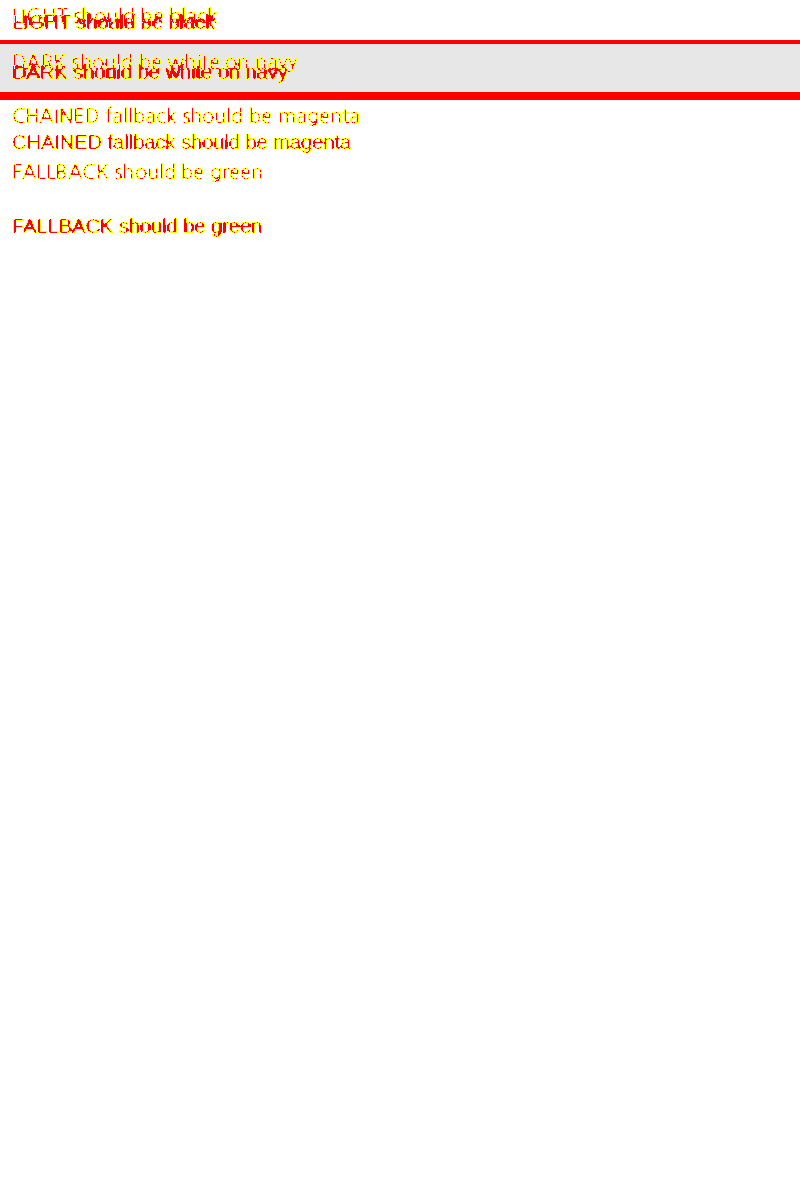
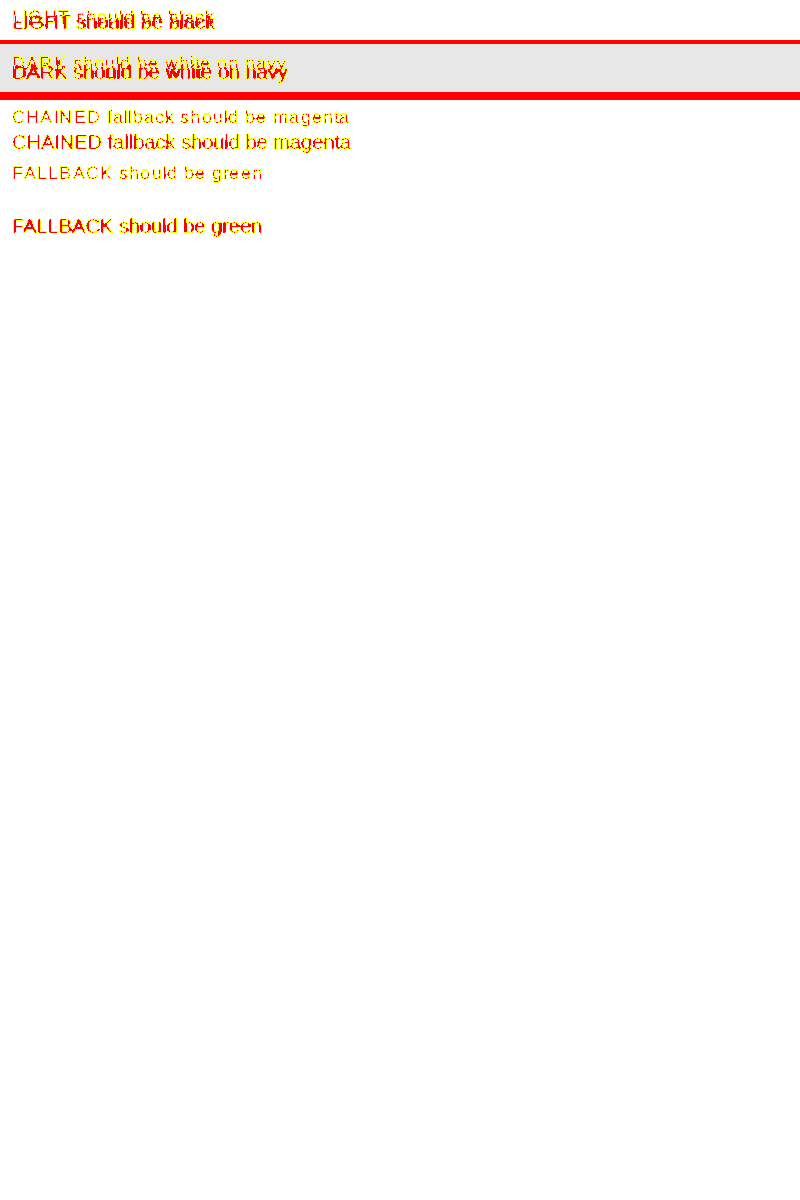
feat(font): add font fallback and share metrics between layout and paint
Text was measured and drawn with a single Korean face, so Latin runs came out at
the wrong advance widths: lines wrapped in the wrong places and pages ran about
a quarter short of Chromium's. DejaVu Sans — already bundled but unused — is now
the primary face, matching the default sans-serif on the systems this renders
against, with the Korean face behind it for the ranges DejaVu does not cover.

Face selection and advance widths live in one module used by both layout and
paint. They had duplicate copies of the metric arithmetic before, which is
exactly the pair that must not drift: if measurement and painting disagree about
a character's face, wrapping stops matching what is drawn. The paint cache is
keyed by face as well as glyph id, since ids only mean anything within a face.

Also honours the hidden attribute and skips template content, which pages rely
on the UA stylesheet for rather than writing the rule themselves, and adds a
coarse block-difference metric to the parity harness: the exact-pixel ratio is
dominated by glyph rasterisation and moves in the wrong direction when a page
goes from blank to correct-but-differently-hinted.

Claude-Session: https://claude.ai/code/session_01MVvjtxhhDJEQznXEyw2u3K

Changed region(s): [[0.0312, 0.0925, 0.4375, 0.1542], [0.0312, 0.0, 0.375, 0.0617]]

diff --git a/tools/parity/fixtures/probe-overflow/index.html b/tools/parity/fixtures/probe-overflow/index.html
@@ -1,0 +1,24 @@
+<!DOCTYPE html>
+<html lang="en">
+<head>
+<meta charset="utf-8">
+<title>Overflow width probe</title>
+<style>
+  body { margin: 0; font: 16px/1.4 sans-serif; background: #fff; }
+  section { border-bottom: 2px solid #333; padding: 8px; }
+  .frame { background: #eef; }
+  .wide { width: 1200px; height: 24px; background: #fcc; }
+  .padded { padding: 0 24px; background: #efe; }
+  .inner { background: #ffe; }
+  .nowrap { white-space: nowrap; background: #fef; }
+  .imgbox { width: 120px; background: #eee; }
+  .imgbox img { width: 100%; }
+</style>
+</head>
+<body>
+  <section><b>child wider than viewport</b><div class="frame"><div class="wide">1200px wide child</div></div></section>
+  <section><b>nested padding</b><div class="padded"><div class="padded"><div class="inner">Nested padding should shrink this box, not push it past the viewport</div></div></div></section>
+  <section><b>nowrap long line</b><div class="frame"><div class="nowrap">A very long single line that cannot wrap and therefore overflows its container horizontally by a lot</div></div></section>
+  <section><b>broken image with long alt</b><div class="imgbox"><img src="/does-not-exist.png" alt="A long alternative text describing an illustration that never loads and must not stretch the layout"></div></section>
+</body>
+</html>

diff --git a/src/render.rs b/src/render.rs
@@ -1,6 +1,6 @@
 use tiny_skia::{Pixmap, Paint, Transform, Stroke, PathBuilder, PixmapPaint, Mask, FillRule,
     LinearGradient, RadialGradient, GradientStop, SpreadMode, Point as SkPoint};
-use ab_glyph::{Font, FontRef, PxScale, point};
+use ab_glyph::{Font, point};
 use crate::layout::{LayoutBox, Rect as LayoutRect};
 use crate::css::{Color, CssColorStop, LinearDirection};
 use crate::layer_tree::{LayerTree, LayerTreeBuilder, PaintCommand, ObjectFit};
@@ -11,7 +11,6 @@ use lazy_static::lazy_static;
 use std::time::Instant;
 use url::Url;
 
-const FONT_DATA: &[u8] = include_bytes!("../assets/fonts/NanumGothic.ttf");
 
 // ── Glyph Cache ───────────────────────────────────────────────────────────────
 
@@ -23,6 +22,9 @@ const FONT_DATA: &[u8] = include_bytes!("../assets/fonts/NanumGothic.ttf");
 /// size collapse to the same entry.
 #[derive(Hash, Eq, PartialEq, Clone, Debug)]
 struct GlyphKey {
+    /// Glyph ids are only meaningful within one face, so the face is part of
+    /// the key — otherwise two faces' glyph 42 would share a cache entry.
+    face: crate::font::FaceId,
     glyph_id: u16,
     /// `(font_size * 2.0).round() as u32` — rounds to nearest 0.5 px.
     font_size_half_px: u32,
@@ -638,8 +640,6 @@ fn create_rounded_rect_path(r: LayoutRect, radius: f32) -> Option<tiny_skia::Pat
     pb.finish()
 }
 
-use std::sync::OnceLock;
-static FONT: OnceLock<FontRef<'static>> = OnceLock::new();
 
 /// Render a text run into `pixmap`.
 ///
@@ -671,15 +671,11 @@ fn render_text_raw(
 ) {
     let trimmed = text.trim();
     if trimmed.is_empty() { return; }
-    let font = FONT.get_or_init(|| {
-        FontRef::try_from_slice(FONT_DATA).expect("Failed to parse embedded font")
-    });
-    let scale = PxScale::from(font_size);
-    let units = font.units_per_em().unwrap_or(1000.0) as f32;
+    let fonts = crate::font::fonts();
     let baseline_offset = font_size * 0.85;
     let mut current_y = rect.y + baseline_offset;
     let mut current_x = rect.x;
-    let space_w = font.h_advance_unscaled(font.glyph_id(' ')) * (scale.x / units);
+    let space_w = fonts.advance(' ', font_size);
 
     // Shear coefficient for italic synthesis: shifts pixels ~12° (tan 12° ≈ 0.213)
     const ITALIC_SHEAR: f32 = 0.213;
@@ -698,9 +694,9 @@ fn render_text_raw(
         let mut word_w = 0.0;
         let mut glyphs = Vec::new();
         for c in word.chars() {
-            let gid = font.glyph_id(c);
-            let adv = font.h_advance_unscaled(gid) * (scale.x / units);
-            glyphs.push((gid, adv));
+            let (face, gid) = fonts.glyph(c);
+            let adv = fonts.advance(c, font_size);
+            glyphs.push((face, gid, adv));
             word_w += adv;
         }
         if current_x + word_w > rect.x + rect.width + 1.0 && current_x > rect.x {
@@ -711,8 +707,9 @@ fn render_text_raw(
             line_start_x = current_x;
             line_end_x = current_x;
         }
-        for (gid, adv) in glyphs {
+        for (face, gid, adv) in glyphs {
             let key = GlyphKey {
+                face,
                 glyph_id: gid.0,
                 font_size_half_px,
                 bold,
@@ -737,8 +734,9 @@ fn render_text_raw(
                 } else {
                     // Cache miss — rasterize using a canonical origin (0, 0) so
                     // that bx_delta/by_delta are position-independent.
-                    let canonical = gid.with_scale_and_position(scale, point(0.0, 0.0));
-                    let entry = if let Some(outline) = font.outline_glyph(canonical) {
+                    let canonical =
+                        gid.with_scale_and_position(fonts.scale(face, font_size), point(0.0, 0.0));
+                    let entry = if let Some(outline) = fonts.face(face).outline_glyph(canonical) {
                         let bounds = outline.px_bounds();
                         let bx_delta = bounds.min.x.floor() as i32;
                         let by_delta = bounds.min.y.floor() as i32;

diff --git a/src/layout.rs b/src/layout.rs
@@ -1,6 +1,5 @@
 use crate::css::{Unit, Value};
 use crate::style::StyledNode;
-use ab_glyph::{Font, FontRef, PxScale};
 use markup5ever_rcdom::NodeData;
 use std::collections::HashMap;
 extern crate stacker;
@@ -276,19 +275,15 @@ fn measure_text_width(text: &str, font_size: f32, wrap_width: f32) -> f32 {
     if trimmed.is_empty() {
         return 0.0;
     }
-    let font = FontRef::try_from_slice(FONT_DATA).unwrap();
-    let scale = PxScale::from(font_size.max(1.0));
-    let units = font.units_per_em().unwrap_or(1000.0) as f32;
-    let space_w = font.h_advance_unscaled(font.glyph_id(' ')) * (scale.x / units);
+    let fonts = crate::font::fonts();
+    let font_size = font_size.max(1.0);
+    let space_w = fonts.advance(' ', font_size);
 
     let mut max_w: f32 = 0.0;
     let mut line_w: f32 = 0.0;
 
     for word in trimmed.split_whitespace() {
-        let mut word_w = 0.0f32;
-        for c in word.chars() {
-            word_w += font.h_advance_unscaled(font.glyph_id(c)) * (scale.x / units);
-        }
+        let word_w = fonts.measure(word, font_size);
         if wrap_width.is_finite() && line_w + word_w > wrap_width && line_w > 0.0 {
             max_w = max_w.max(line_w);
             line_w = 0.0;
@@ -530,7 +525,6 @@ impl FloatContext {
     }
 }
 
-const FONT_DATA: &[u8] = include_bytes!("../assets/fonts/NanumGothic.ttf");
 
 #[derive(Default, Debug, Clone, Copy, PartialEq)]
 pub struct Rect {
@@ -2742,11 +2736,9 @@ impl<'a> LayoutBox<'a> {
             Some(Value::Length(v, Unit::Px)) => v.max(1.0),
             _ => 16.0,
         };
-        let font = FontRef::try_from_slice(FONT_DATA).unwrap();
-        let scale = PxScale::from(font_size);
-        let units = font.units_per_em().unwrap_or(1000.0) as f32;
+        let fonts = crate::font::fonts();
         let line_height = font_size * 1.4;
-        let space_w = font.h_advance_unscaled(font.glyph_id(' ')) * (scale.x / units);
+        let space_w = fonts.advance(' ', font_size);
         let white_space = self
             .style_node
             .specified_values
@@ -2794,10 +2786,7 @@ impl<'a> LayoutBox<'a> {
         }
 
         for word in trimmed.split_whitespace() {
-            let mut word_w = 0.0;
-            for c in word.chars() {
-                word_w += font.h_advance_unscaled(font.glyph_id(c)) * (scale.x / units);
-            }
+            let word_w = fonts.measure(word, font_size);
 
             if no_wrap {
                 if line_w > 0.0 {
@@ -2817,7 +2806,7 @@ impl<'a> LayoutBox<'a> {
             // If a single word is LONGER than the entire container, we must break it char-by-char
             if container_width.is_finite() && word_w > container_width {
                 for c in word.chars() {
-                    let char_w = font.h_advance_unscaled(font.glyph_id(c)) * (scale.x / units);
+                    let char_w = fonts.advance(c, font_size);
                     if line_w + char_w > container_width && line_w > 0.0 {
                         max_w = max_w.max(line_w);
                         line_w = 0.0;
@@ -3103,6 +3092,18 @@ fn should_skip(child: &StyledNode) -> bool {
     }
     if let NodeData::Element { ref name, ref attrs, .. } = child.node.data {
         let t = name.local.to_string();
+        // The `hidden` attribute is `display: none` in every UA stylesheet, and
+        // pages lean on that default rather than writing the rule themselves —
+        // dismissed banners and flash-message templates ship in the markup and
+        // stay in it. `<template>` holds inert content that is never rendered.
+        if t == "template" {
+            return true;
+        }
+        if attrs.borrow().iter().any(|a| {
+            a.name.local.as_ref() == "hidden" && !a.value.as_ref().eq_ignore_ascii_case("until-found")
+        }) {
+            return true;
+        }
         if matches!(
             t.as_str(),
             "head" | "style" | "meta" | "title" | "script" | "link" | "noscript"

diff --git a/src/font.rs b/src/font.rs
@@ -1,0 +1,87 @@
+//! Font selection and metrics, shared by layout and paint.
+//!
+//! Layout measures text to decide where lines break; paint draws the glyphs. If
+//! those two disagree about which face a character comes from, wrapping stops
+//! matching what is drawn, so both go through this module.
+//!
+//! Two faces are bundled. DejaVu Sans is the primary because it is the default
+//! `sans-serif` on the Linux systems this renders against, so Latin text picks
+//! up the same advance widths a browser would use. NanumGothic covers the CJK
+//! ranges DejaVu has no glyphs for.
+
+use ab_glyph::{Font, FontRef, GlyphId, PxScale};
+use std::sync::OnceLock;
+
+const PRIMARY: &[u8] = include_bytes!("../assets/fonts/DejaVuSans.ttf");
+const FALLBACK: &[u8] = include_bytes!("../assets/fonts/NanumGothic.ttf");
+
+/// Which bundled face a glyph came from.
+///
+/// Paint caches rasterised glyphs by id, and ids are only meaningful within one
+/// face, so the face has to travel with the id.
+#[derive(Debug, Clone, Copy, PartialEq, Eq, Hash)]
+pub enum FaceId {
+    Primary,
+    Fallback,
+}
+
+pub struct FontSet {
+    primary: FontRef<'static>,
+    fallback: FontRef<'static>,
+}
+
+impl FontSet {
+    pub fn face(&self, id: FaceId) -> &FontRef<'static> {
+        match id {
+            FaceId::Primary => &self.primary,
+            FaceId::Fallback => &self.fallback,
+        }
+    }
+
+    /// The face that has a glyph for `c`, and that glyph's id.
+    ///
+    /// `glyph_id` returns 0 (`.notdef`) for a character a face does not cover,
+    /// which is what drives the fallback.
+    pub fn glyph(&self, c: char) -> (FaceId, GlyphId) {
+        let primary = self.primary.glyph_id(c);
+        if primary.0 != 0 {
+            return (FaceId::Primary, primary);
+        }
+        let fallback = self.fallback.glyph_id(c);
+        if fallback.0 != 0 {
+            return (FaceId::Fallback, fallback);
+        }
+        (FaceId::Primary, primary)
+    }
+
+    /// Advance width of `c` at `font_size`, in pixels.
+    pub fn advance(&self, c: char, font_size: f32) -> f32 {
+        let (face_id, gid) = self.glyph(c);
+        let face = self.face(face_id);
+        let units = face.units_per_em().unwrap_or(1000.0);
+        face.h_advance_unscaled(gid) * (font_size / units)
+    }
+
+    /// Advance width of a whole run, with no wrapping applied.
+    pub fn measure(&self, text: &str, font_size: f32) -> f32 {
+        text.chars().map(|c| self.advance(c, font_size)).sum()
+    }
+
+    /// Scale to use with `ab_glyph` for a given face at `font_size`.
+    ///
+    /// The faces have different units-per-em, so a shared `PxScale` would draw
+    /// one of them at the wrong size.
+    pub fn scale(&self, face_id: FaceId, font_size: f32) -> PxScale {
+        let _ = self.face(face_id);
+        PxScale::from(font_size)
+    }
+}
+
+/// The bundled faces, parsed once.
+pub fn fonts() -> &'static FontSet {
+    static FONTS: OnceLock<FontSet> = OnceLock::new();
+    FONTS.get_or_init(|| FontSet {
+        primary: FontRef::try_from_slice(PRIMARY).expect("bundled primary font should parse"),
+        fallback: FontRef::try_from_slice(FALLBACK).expect("bundled fallback font should parse"),
+    })
+}

diff --git a/src/main.rs b/src/main.rs
@@ -3,6 +3,7 @@ use poll_promise::Promise;
 use std::collections::HashMap;
 
 pub mod dom;
+pub mod font;
 pub mod css;
 pub mod style;
 pub mod layout;
